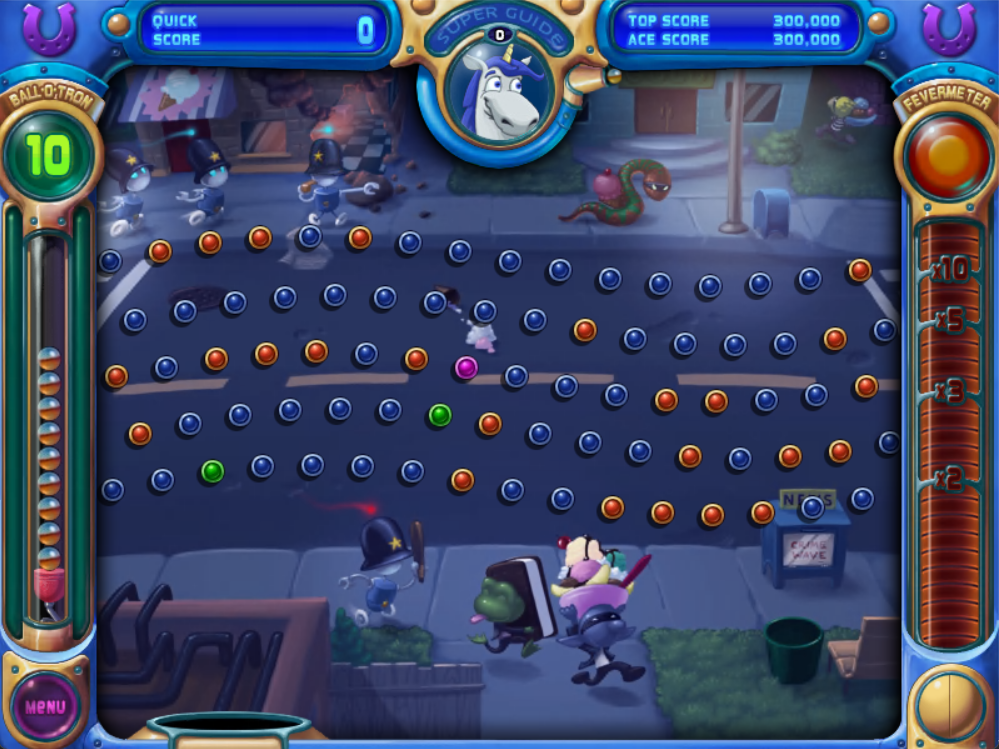
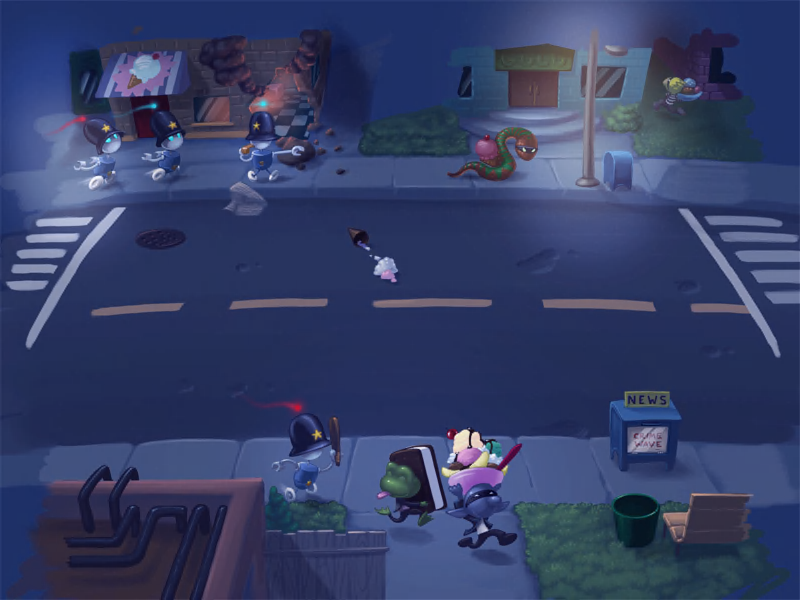
Actual Level background is used now

diff --git a/LevelComponent.cs b/LevelComponent.cs
@@ -32,6 +32,7 @@ namespace PeggleAI
 
 		// Level Objects
 		private Texture2D background;
+		private Texture2D backgroundNoPegs;
 		private HashSet<Peg> pegs;
 		private BallShooter shooter;
 		private OffScreenBox offScreenBox;
@@ -74,7 +75,6 @@ namespace PeggleAI
 			Texture2D arrowTexture = Game.Content.Load<Texture2D>("Arrow");
 			Texture2D bluePegTexture = Game.Content.Load<Texture2D>("BluePeg");
 			Texture2D orangePegTexture = Game.Content.Load<Texture2D>("OrangePeg");
-			Texture2D wallTexture = Game.Content.Load<Texture2D>("GroundSprite");
 
 			// Call loadContent to give each game object the textures they need
 			Peg.loadContent(bluePegTexture, orangePegTexture, world);
@@ -179,7 +179,7 @@ namespace PeggleAI
 			spriteBatch.Begin(SpriteSortMode.Deferred, null, null, null, RasterizerState.CullClockwise, spriteBatchEffect);
 
 			// Draw the background
-			/*Microsoft.Xna.Framework.Vector2 bgPos = new Microsoft.Xna.Framework.Vector2(background.Width/2f, background.Height/2f);
+			Microsoft.Xna.Framework.Vector2 bgPos = new Microsoft.Xna.Framework.Vector2(background.Width/2f, background.Height/2f);
 			spriteBatch.Draw(
 				background,
 				Microsoft.Xna.Framework.Vector2.Zero,
@@ -187,10 +187,10 @@ namespace PeggleAI
 				Color.White,
 				0f,
 				bgPos,
-				0.0125f,
+				0.0156f,
 				SpriteEffects.FlipVertically,
 				0f
-			); */
+			);
 
 			// Draw each peg
 			foreach(Peg peg in pegs)

diff --git a/Ball.cs b/Ball.cs
@@ -21,7 +21,7 @@ namespace PeggleAI
         private static float ballRadius = 0.125f;
         public Body ballBody { get; private set; }
         private const float BALL_SPEED = 0.4f;
-        private const float BALL_BOUNCINESS = 0.7f;
+        private const float BALL_BOUNCINESS = 0.6f;
         private const float BALL_FRICTION = 0.1f;
         
         public Ball(float x, float y, float rotation)
@@ -32,10 +32,6 @@ namespace PeggleAI
             var ballFixture = ballBody.CreateCircle(ballRadius, 1f);
             ballFixture.Restitution = BALL_BOUNCINESS;
             ballFixture.Friction = BALL_FRICTION;
-
-            // The offScreenBody is used to detect when a ball reaches the bottom of the screen
-            //offScreenBody = world.CreateBody(new Vector2(0, 0), 0, BodyType.Static);
-            //var offScreenFixture = offScreenBody.CreateRectangle(8, 1, 1f, Vector2.Zero);
 
             // When the ball is spawned, give it some velocity in the direction the player is aiming
             Vector2 ballVelocity = new Vector2((float)Math.Sin(rotation) * -1, (float)Math.Cos(rotation));

diff --git a/Wall.cs b/Wall.cs
@@ -23,6 +23,8 @@ namespace PeggleAI
 
         private Body wallBody;
         private static Vector2 wallBodySize = new Vector2(0.25f, 10f);
+        private static float WALL_BOUNCINESS = 0.8f;
+        private static float WALL_FRICTION = 0.0f;
 
         public Wall(float x, float y, World world)
         {
@@ -31,6 +33,9 @@ namespace PeggleAI
             // Create the wall fixture
             wallBody = world.CreateBody(wallPosition, 0, BodyType.Static);
             var wfixture = wallBody.CreateRectangle(wallBodySize.X, wallBodySize.Y, 1f, Vector2.Zero);
+
+            wfixture.Restitution = WALL_BOUNCINESS;
+            wfixture.Friction = WALL_FRICTION;
         }
 
         /*
